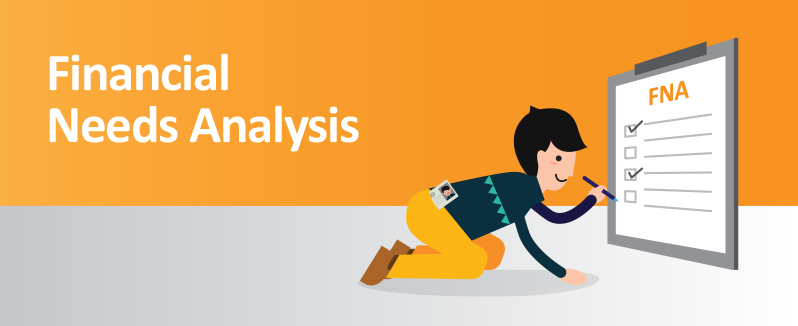
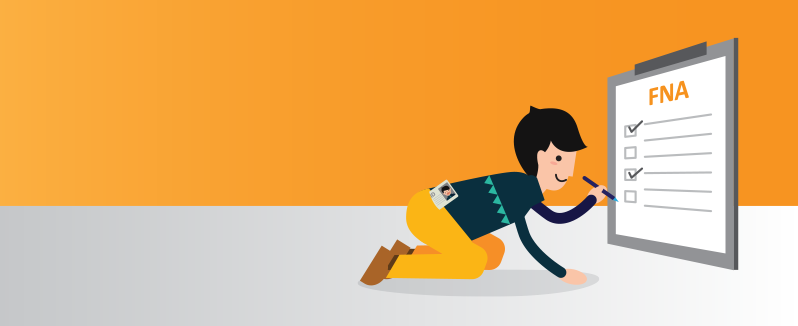
Layout fix on home page

Changed region(s): [[0.0602, 0.3067, 0.4511, 0.4601], [0.0602, 0.1534, 0.3008, 0.2761]]

diff --git a/src/main/webapp/resources/css/savie-styles.css b/src/main/webapp/resources/css/savie-styles.css
@@ -1653,60 +1653,52 @@ body {
 /* line 220, ../sass/partials/savie/_homepage.scss */
 .fna-body .fna-box {
   position: absolute;
-  width: 80%;
+  width: 54%;
   top: 11%;
-  margin-left: 5%;
+  left: 6%;
+  color: #fff;
 }
 @media screen and (min-width: 768px) {
   /* line 220, ../sass/partials/savie/_homepage.scss */
   .fna-body .fna-box {
-    width: 36%;
+    /*width: 36%;*/
   }
 }
 @media screen and (min-width: 992px) {
   /* line 220, ../sass/partials/savie/_homepage.scss */
   .fna-body .fna-box {
-    margin-left: 0;
+  	width: 60%;
+    left: 8%;
   }
 }
 /* line 233, ../sass/partials/savie/_homepage.scss */
 .fna-body .fna-box h3 {
   font-family: 'Calibri-Bold';
-  color: #ff8200;
-  margin: auto;
-  font-size: 24px;
-}
-@media screen and (min-width: 414px) {
-  /* line 233, ../sass/partials/savie/_homepage.scss */
-  .fna-body .fna-box h3 {
-    font-size: 30px;
-  }
+  /*color: #ff8200;*/
+  color: #fff;
+  line-height: 1;
+  margin-top: 0;
+  margin-bottom: 3%;
+  font-size: 4.6vw;
 }
 @media screen and (min-width: 992px) {
   /* line 233, ../sass/partials/savie/_homepage.scss */
   .fna-body .fna-box h3 {
-    margin-top: 10px;
+    margin-bottom: 1%;
+    font-size: 4.3vw;
   }
 }
 /* line 247, ../sass/partials/savie/_homepage.scss */
 .fna-body .fna-box p {
   font-family: 'Calibri';
-  font-size: 14px;
-  line-height: 18px;
-  margin: 10px 0 0;
-}
-@media screen and (min-width: 414px) {
-  /* line 247, ../sass/partials/savie/_homepage.scss */
-  .fna-body .fna-box p {
-    font-size: inherit;
-    margin: 25px 0 0;
-    font-size: 14px;
-  }
+  font-size: 2.6vw;
+  line-height: 1.2;
+  margin: 0;
 }
 @media screen and (min-width: 992px) {
   /* line 247, ../sass/partials/savie/_homepage.scss */
   .fna-body .fna-box p {
-    max-width: 292px;
+    font-size: 2.3vw;
   }
 }
 /* line 265, ../sass/partials/savie/_homepage.scss */
